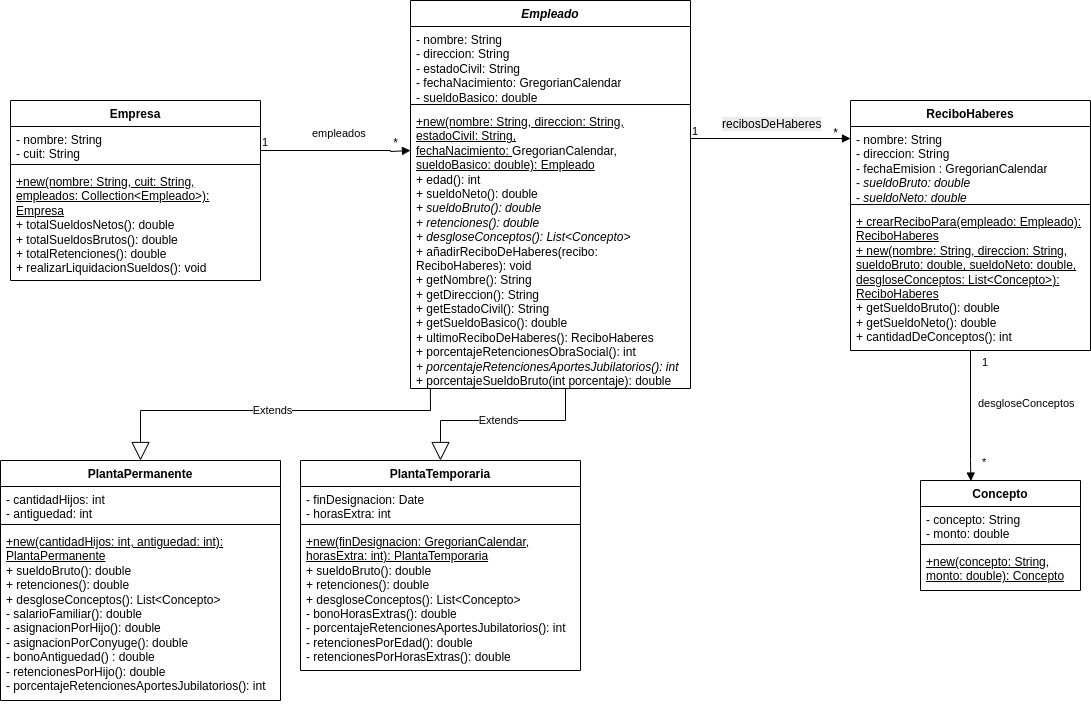
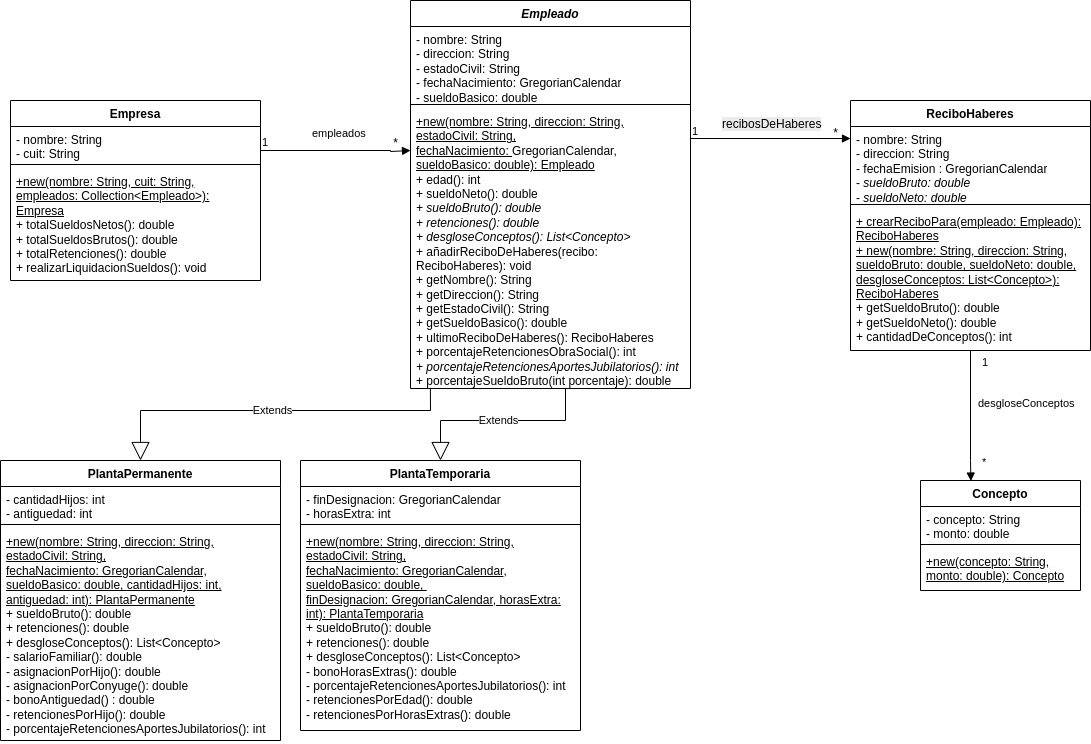
Desarrollada la jerarquía de clases de los empleados

diff --git a/tp2/ejercicio1Java/src/mainPackage/empleado/PlantaPermanente.java b/tp2/ejercicio1Java/src/mainPackage/empleado/PlantaPermanente.java
@@ -1,5 +1,71 @@
 package mainPackage.empleado;
 
-public class PlantaPermanente {
+import java.util.GregorianCalendar;
+import java.util.List;
+import java.util.ArrayList;
+
+import mainPackage.Concepto;
+
+public class PlantaPermanente extends Empleado {
+	private int cantidadHijos;
+	private int antiguedad;
+	final static double montoAsignacionPorHijo = 150;
+	final static double montoAsignacionPorConyuge = 100;
+	final static double montoAsignacionPorAntiguedad = 50;
+	final static double montoRetencionesPorHijo = 20;
 	
+	public PlantaPermanente(String nombre, String direccion, String 
+			estadoCivil, GregorianCalendar fechaNacimiento, double 
+			sueldoBasico, int cantidadHijos, int antiguedad) {
+		super(nombre, direccion, estadoCivil, fechaNacimiento, sueldoBasico);
+		this.cantidadHijos = cantidadHijos;
+		this.antiguedad = antiguedad;
+	}
+	
+	@Override
+	public double sueldoBruto() {
+		return this.getSueldoBasico() + this.salarioFamiliar();
+	}
+	
+	@Override
+	public double retenciones() {
+		return this.porcentajeSueldoBruto(this.porcentajeRetencionesObraSocial())
+		+ this.retencionesPorHijo() + this.porcentajeSueldoBruto(
+		this.porcentajeRetencionesAportesJubilatorios());
+	}
+	
+	@Override
+	public List<Concepto> desgloseConceptos() {
+		return new ArrayList<Concepto>(); //TERMINAR!!!!
+	}
+	
+	private double salarioFamiliar() {
+		return this.asignacionPorHijo() + this.asignacionPorConyuge()
+		+ bonoPorAntiguedad();
+	}
+	
+	private double asignacionPorHijo() {
+		return cantidadHijos * montoAsignacionPorHijo;
+	}
+	
+	private double asignacionPorConyuge() {
+		if(this.getEstadoCivil()=="Casado") {
+			return montoAsignacionPorConyuge;
+		} else {
+			return 0;
+		}
+	}
+	
+	private double bonoPorAntiguedad() {
+		return antiguedad * montoAsignacionPorAntiguedad;
+	}
+	
+	private double retencionesPorHijo() {
+		return cantidadHijos * montoRetencionesPorHijo;
+	}
+	
+	@Override
+	protected int porcentajeRetencionesAportesJubilatorios() {
+		return 15;
+	}
 }

diff --git a/tp2/ejercicio1Java/src/mainPackage/empleado/PlantaTemporaria.java b/tp2/ejercicio1Java/src/mainPackage/empleado/PlantaTemporaria.java
@@ -1,5 +1,64 @@
 package mainPackage.empleado;
 
-public class PlantaTemporaria {
+import java.util.ArrayList;
+import java.util.GregorianCalendar;
+import java.util.List;
 
+import mainPackage.Concepto;
+
+public class PlantaTemporaria extends Empleado {
+	private GregorianCalendar finDesignacion;
+	private int horasExtra;
+	final static double montoPorHorasExtra = 40;
+	final static double montoRetencionesPorEdad = 25;
+	final static double montoRetencionesPorHorasExtra = 5;
+	
+	public PlantaTemporaria(String nombre, String direccion, String 
+			estadoCivil, GregorianCalendar fechaNacimiento, double 
+			sueldoBasico, GregorianCalendar finDesignacion, int 
+			horasExtra) {
+		super(nombre, direccion, estadoCivil, fechaNacimiento, sueldoBasico);
+		this.finDesignacion = finDesignacion;
+		this.horasExtra = horasExtra;
+	}
+	
+	@Override
+	public double sueldoBruto() {
+		return this.getSueldoBasico() + this.bonoHorasExtras();
+	}
+	
+	@Override
+	public double retenciones() {
+		return this.porcentajeSueldoBruto(this.porcentajeRetencionesObraSocial())
+		+ this.retencionesPorEdad() + this.porcentajeSueldoBruto(
+		this.porcentajeRetencionesAportesJubilatorios()) +
+		this.retencionesPorHorasExtras();
+	}
+	
+	@Override
+	public List<Concepto> desgloseConceptos() {
+		return new ArrayList<Concepto>(); //TERMINAR!!!!
+	}
+	
+	private double bonoHorasExtras() {
+		return horasExtra * montoPorHorasExtra;
+	}
+	
+	@Override
+	protected int porcentajeRetencionesAportesJubilatorios() {
+		return 10;
+	}
+	
+	private double retencionesPorEdad() {
+		if(this.edad()>50) {
+			return montoRetencionesPorEdad;
+		} else {
+			return 0;
+		}
+	}
+	
+	private double retencionesPorHorasExtras() {
+		return horasExtra * montoRetencionesPorHorasExtra;
+	}
+	
 }

diff --git a/tp2/ejercicio1Java/src/mainPackage/empleado/Empleado.java b/tp2/ejercicio1Java/src/mainPackage/empleado/Empleado.java
@@ -2,6 +2,7 @@ package mainPackage.empleado;
 
 import java.util.Collection;
 import java.util.List;
+import java.util.ArrayList;
 import java.util.GregorianCalendar;
 import mainPackage.Concepto;
 import mainPackage.ReciboHaberes;
@@ -21,6 +22,7 @@ abstract public class Empleado {
 		this.estadoCivil = estadoCivil;
 		this.fechaNacimiento = fechaNacimiento;
 		this.sueldoBasico = sueldoBasico;
+		this.recibosDeHaberes = new ArrayList<ReciboHaberes>();
 	}
 	
 	public int edad() {
